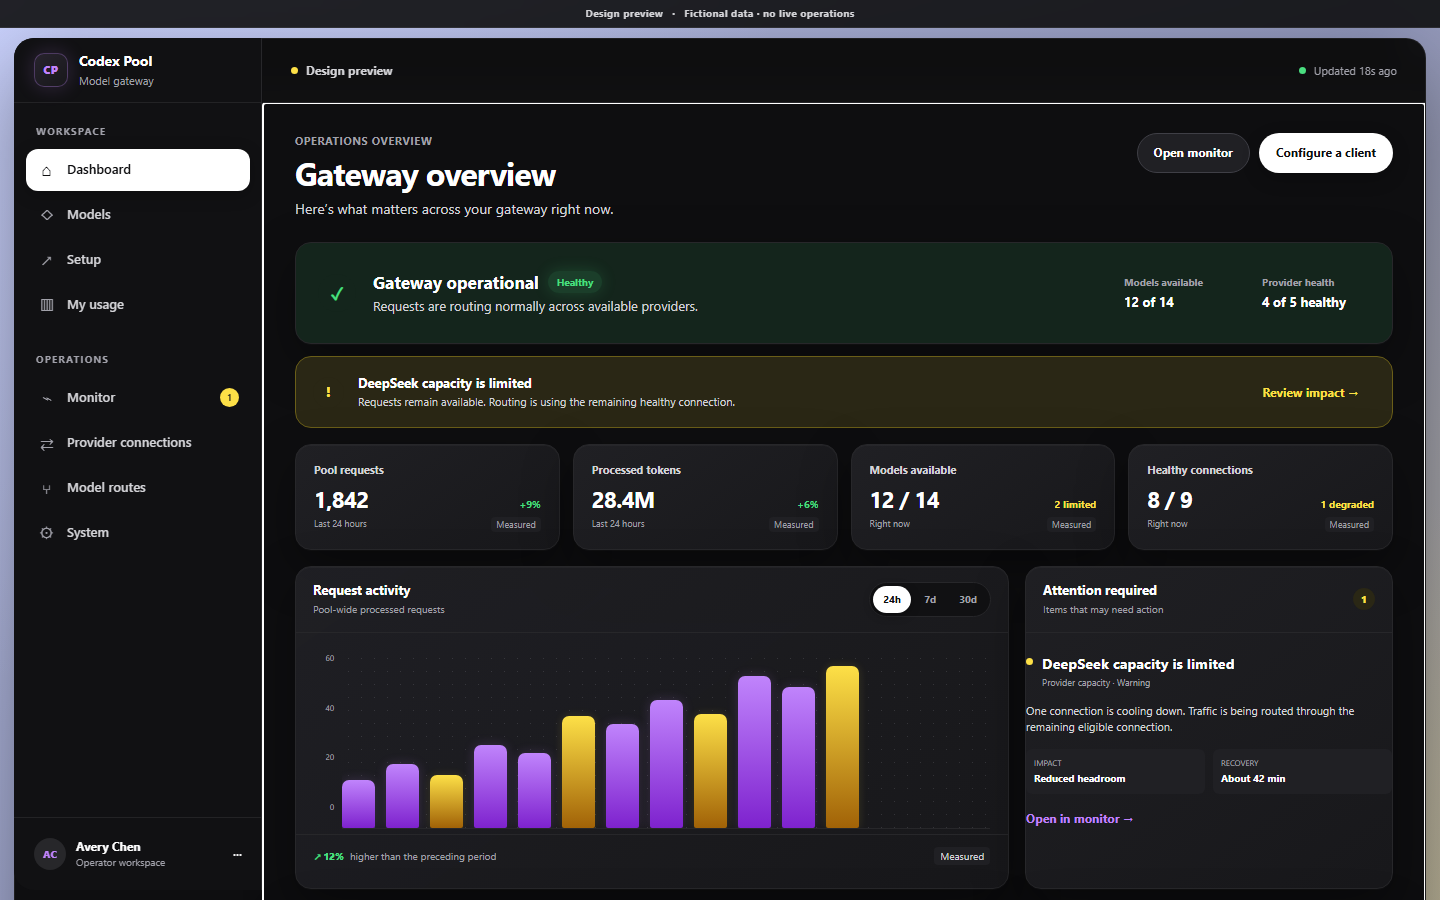
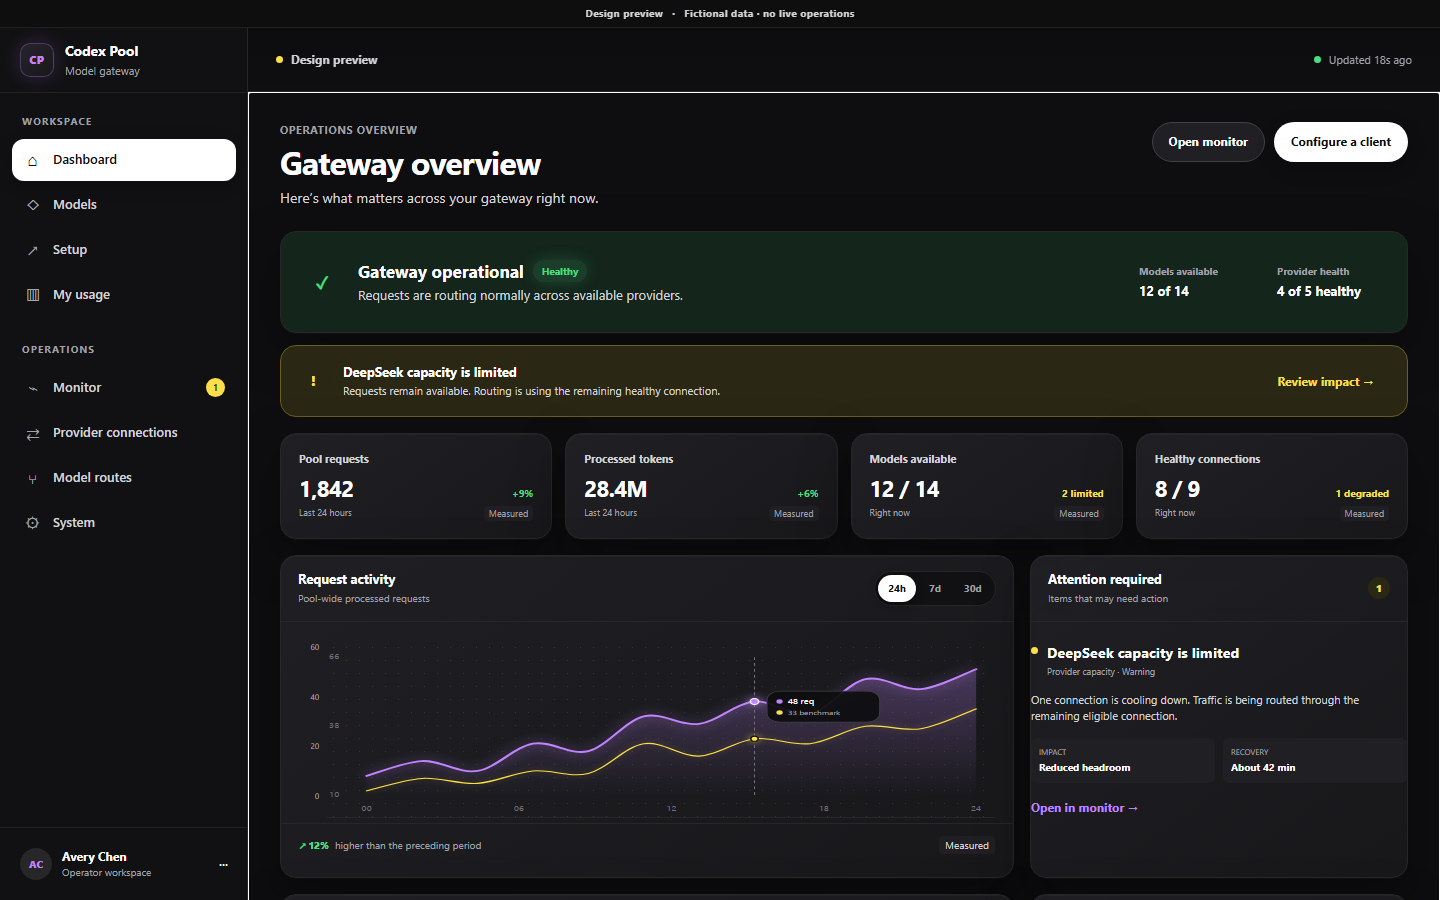
feat: redesign activity charts as dual splines

diff --git a/.product-design/rounds/step-0/primary/styles.css b/.product-design/rounds/step-0/primary/styles.css
@@ -34,7 +34,7 @@
 
 * { box-sizing: border-box; }
 html, body { min-height: 100%; margin: 0; }
-body { background: radial-gradient(circle at 12% 8%, rgba(202,210,253,.95), transparent 35%), radial-gradient(circle at 88% 88%, rgba(199,188,146,.6), transparent 38%), linear-gradient(135deg, #cad2fd, #9298bd 52%, #c7bc92); color: var(--text-primary); font-size: 14px; line-height: 1.45; overflow-x: hidden; }
+body { background: var(--bg-canvas); color: var(--text-primary); font-size: 14px; line-height: 1.45; overflow-x: hidden; }
 button, input { font: inherit; }
 button, a { -webkit-tap-highlight-color: transparent; }
 button:focus-visible, a:focus-visible, input:focus-visible { outline: 3px solid rgba(49, 95, 196, .34); outline-offset: 2px; }
@@ -55,9 +55,9 @@ body[data-runtime="operator"] .member-only { display: none !important; }
 
 .preview-notice { position: fixed; inset: 0 0 auto 0; z-index: 100; height: 28px; display: flex; align-items: center; justify-content: center; gap: 9px; background: rgba(14,14,16,.9); border-bottom: 1px solid rgba(255,255,255,.08); color: #d4d4d8; font-size: 10px; font-weight: 650; letter-spacing: .04em; backdrop-filter: blur(12px); }
 .preview-notice span + span::before { content: "·"; margin-right: 9px; }
-.app-shell { min-height: calc(100vh - 48px); margin: 38px 14px 10px; padding-top: 0; display: grid; grid-template-columns: var(--sidebar-width) minmax(0, 1fr); grid-template-rows: var(--topbar-height) minmax(0, 1fr); border: 1px solid rgba(255,255,255,.07); border-radius: 20px; background: var(--bg-canvas); box-shadow: 0 28px 90px rgba(2,2,3,.42); overflow: clip; }
+.app-shell { min-height: 100vh; padding-top: 28px; display: grid; grid-template-columns: var(--sidebar-width) minmax(0, 1fr); grid-template-rows: var(--topbar-height) minmax(0, 1fr); background: var(--bg-canvas); }
 
-.sidebar { position: fixed; top: 38px; bottom: 10px; left: 14px; z-index: 30; width: var(--sidebar-width); display: flex; flex-direction: column; border-radius: 20px 0 0 20px; background: var(--sidebar); color: var(--text-primary); }
+.sidebar { position: fixed; top: 28px; bottom: 0; left: 0; z-index: 30; width: var(--sidebar-width); display: flex; flex-direction: column; background: var(--sidebar); color: var(--text-primary); }
 .sidebar-brand-row { min-height: var(--topbar-height); display: block; border-bottom: 1px solid rgba(255,255,255,.08); }
 .brand { min-width: 0; min-height: var(--topbar-height); display: flex; align-items: center; gap: 11px; padding: 0 20px; text-decoration: none; }
 .sidebar-toggle { position: absolute; top: 0; right: -5px; bottom: 0; z-index: 3; width: 10px; border: 0; border-radius: 0; background: linear-gradient(to right, transparent 4px, #27272a 4px, #27272a 5px, transparent 5px); padding: 0; cursor: pointer; }
@@ -102,7 +102,7 @@ body.sidebar-collapsed .user-button { display: flex; justify-content: center; pa
 .user-button small { color: var(--sidebar-muted); font-size: 10px; }
 .avatar { width: 32px; height: 32px; display: grid; place-items: center; border: 0; border-radius: 50%; background: #27272a; color: #c084fc; font-size: 10px; font-weight: 800; }
 
-.topbar { position: sticky; top: 0; z-index: 20; grid-column: 2; height: var(--topbar-height); display: flex; align-items: center; justify-content: space-between; padding: 0 28px; border-bottom: 1px solid var(--border); background: rgba(14,14,16,.78); backdrop-filter: blur(18px); }
+.topbar { position: sticky; top: 28px; z-index: 20; grid-column: 2; height: var(--topbar-height); display: flex; align-items: center; justify-content: space-between; padding: 0 28px; border-bottom: 1px solid var(--border); background: rgba(14,14,16,.88); backdrop-filter: blur(18px); }
 .topbar-context, .topbar-actions, .refresh-state { display: flex; align-items: center; gap: 8px; }
 .topbar-context { color: var(--text-secondary); font-size: 12px; font-weight: 650; }
 .environment-dot { width: 7px; height: 7px; border-radius: 50%; background: #fde047; }
@@ -194,9 +194,19 @@ body[data-runtime="operator"] .degraded-banner.operator-only { display: grid !im
 .segmented button.active { background: #ffffff; color: #0e0e10; box-shadow: 0 2px 10px rgba(0,0,0,.35); }
 .chart-wrap { height: 201px; display: grid; grid-template-columns: 25px 1fr; gap: 8px; padding: 19px 18px 5px 13px; }
 .chart-y { display: flex; flex-direction: column; justify-content: space-between; align-items: flex-end; padding-bottom: 16px; color: var(--text-muted); font-size: 8px; }
-.chart { position: relative; display: flex; align-items: end; gap: clamp(4px, 1vw, 11px); border-bottom: 1px solid var(--border); background-image: radial-gradient(circle, rgba(161,161,170,.2) .75px, transparent .85px); background-size: 13px 13px; overflow: hidden; }
-.chart-bar { flex: 1 1 0; min-width: 5px; max-width: 33px; border-radius: 7px 7px 2px 2px; background: linear-gradient(to top, #7e22ce, #c084fc); box-shadow: 0 0 12px rgba(192,132,252,.18); transition: height 160ms ease; }
-.chart-bar:nth-child(3n) { background: linear-gradient(to top, #a16207, #fde047); box-shadow: 0 0 10px rgba(253,224,71,.14); }
+.chart { position: relative; border-bottom: 1px solid var(--border); background-image: radial-gradient(circle, rgba(161,161,170,.2) .75px, transparent .85px); background-size: 13px 13px; overflow: hidden; }
+.spline-svg { width: 100%; height: 100%; display: block; overflow: visible; }
+.spline-axis { fill: #71717a; font: 9px Inter, system-ui, sans-serif; }
+.spline-area { fill: url(#primary-area); }
+.spline-primary { fill: none; stroke: #c084fc; stroke-width: 2.5; stroke-linecap: round; filter: drop-shadow(0 0 7px rgba(192,132,252,.65)); }
+.spline-secondary { fill: none; stroke: #fde047; stroke-width: 1.5; stroke-linecap: round; filter: drop-shadow(0 0 4px rgba(253,224,71,.3)); }
+.spline-marker { stroke: #71717a; stroke-width: 1; stroke-dasharray: 4 4; }
+.spline-node-primary { fill: #c084fc; stroke: #ffffff; stroke-width: 1.5; filter: drop-shadow(0 0 5px rgba(192,132,252,.9)); }
+.spline-node-secondary { fill: #fde047; stroke: #0e0e10; stroke-width: 1.5; filter: drop-shadow(0 0 4px rgba(253,224,71,.65)); }
+.spline-tooltip { fill: rgba(14,14,16,.94); stroke: #3f3f46; stroke-width: 1; }
+.spline-tooltip-text { fill: #ffffff; font: 9px Inter, system-ui, sans-serif; }
+.spline-tooltip-sub { fill: #a1a1aa; font: 8px Inter, system-ui, sans-serif; }
+.focus-chart, .live-chart { position: relative; height: 400px; padding: 0; background-color: rgba(14,14,16,.26); background-image: radial-gradient(circle, rgba(161,161,170,.22) .8px, transparent .9px); background-size: 14px 14px; }
 .chart-summary { min-height: 44px; display: flex; align-items: center; gap: 6px; padding: 0 18px; border-top: 1px solid var(--border); color: var(--text-muted); font-size: 10px; }
 .trend.positive { color: var(--success); font-weight: 800; }
 .evidence { margin-left: auto; padding: 2px 6px; border-radius: 4px; background: var(--bg-subtle); color: var(--text-secondary); }
@@ -319,7 +329,9 @@ body[data-runtime="operator"] .count-badge.operator-only { display: grid !import
 .usage-layout { display: grid; grid-template-columns: minmax(0,1.1fr) minmax(340px,.9fr); gap: 16px; }
 .weekly-bars { height: 268px; display: grid; grid-template-columns: repeat(7,1fr); align-items: end; gap: 12px; padding: 24px 22px 15px; background-image: radial-gradient(circle, rgba(161,161,170,.18) .75px, transparent .85px); background-size: 13px 13px; }
 .weekly-bars div { height: 100%; display: grid; grid-template-rows: 1fr auto auto; align-items: end; justify-items: center; gap: 5px; }
-.weekly-bars i { width: min(34px,80%); height: var(--bar); border-radius: 8px 8px 2px 2px; background: linear-gradient(to top, #7e22ce, #c084fc); box-shadow: 0 0 12px rgba(192,132,252,.18); }
+.weekly-bars i { position: relative; width: min(34px,80%); height: var(--bar); border: 1px solid #3f3f46; border-radius: 999px; background: repeating-linear-gradient(135deg, #27272a 0, #27272a 3px, #18181b 3px, #18181b 7px); }
+.weekly-bars div:nth-child(7) i { border-color: rgba(192,132,252,.55); background: linear-gradient(to top, #fde047 0 24%, #c084fc 24% 100%); box-shadow: 0 0 16px rgba(192,132,252,.25); }
+.weekly-bars div:nth-child(7) strong { color: #fde047; }
 .weekly-bars strong { font-size: 9px; }
 .weekly-bars span { color: var(--text-muted); font-size: 9px; }
 .usage-note { min-height: 43px; display: flex; align-items: center; padding: 0 18px; border-top: 1px solid var(--border); color: var(--text-secondary); font-size: 10px; }

diff --git a/.product-design/rounds/step-0/primary/app.js b/.product-design/rounds/step-0/primary/app.js
@@ -51,23 +51,47 @@ const activity = {
   "30d": [82, 96, 88, 114, 120, 132, 126, 148, 143, 157, 168, 162]
 };
 
+let splineSequence = 0;
+function splinePath(coords) {
+  if (coords.length < 2) return "";
+  let path = `M ${coords[0][0]} ${coords[0][1]}`;
+  for (let i = 0; i < coords.length - 1; i++) {
+    const p0 = coords[i - 1] || coords[i], p1 = coords[i], p2 = coords[i + 1], p3 = coords[i + 2] || p2;
+    const c1x = p1[0] + (p2[0] - p0[0]) / 6, c1y = p1[1] + (p2[1] - p0[1]) / 6;
+    const c2x = p2[0] - (p3[0] - p1[0]) / 6, c2y = p2[1] - (p3[1] - p1[1]) / 6;
+    path += ` C ${c1x} ${c1y}, ${c2x} ${c2y}, ${p2[0]} ${p2[1]}`;
+  }
+  return path;
+}
+
+function renderSpline(target, primary, secondary, options = {}) {
+  const width = 640, height = 240, left = 38, right = 18, top = 22, bottom = 30;
+  const all = [...primary, ...secondary], min = Math.min(...all) * .86, max = Math.max(...all) * 1.08;
+  const coords = values => values.map((value, index) => [left + index * (width-left-right) / Math.max(1, values.length-1), top + (max-value) / Math.max(1, max-min) * (height-top-bottom)]);
+  const a = coords(primary), b = coords(secondary), primaryPath = splinePath(a), secondaryPath = splinePath(b);
+  const areaPath = `${primaryPath} L ${a.at(-1)[0]} ${height-bottom} L ${a[0][0]} ${height-bottom} Z`;
+  const active = Math.min(primary.length - 1, Math.max(1, Math.round((primary.length - 1) * .66)));
+  const [activeX, activeY] = a[active], [, secondaryY] = b[active];
+  const tooltipX = Math.min(width - 126, Math.max(left + 5, activeX + 12)), tooltipY = Math.max(8, Math.min(activeY, secondaryY) - 14);
+  const gradient = `primary-area-${++splineSequence}`, xLabels = options.xLabels || ["1", "8", "16", "24", "31"], yLabels = [max, (max+min)/2, min];
+  target.innerHTML = `<svg class="spline-svg" viewBox="0 0 ${width} ${height}" preserveAspectRatio="none" aria-hidden="true"><defs><linearGradient id="${gradient}" x1="0" y1="0" x2="0" y2="1"><stop offset="0" stop-color="#c084fc" stop-opacity=".28"/><stop offset="1" stop-color="#c084fc" stop-opacity="0"/></linearGradient></defs><path d="${areaPath}" fill="url(#${gradient})"/><path class="spline-secondary" d="${secondaryPath}"/><path class="spline-primary" d="${primaryPath}"/><line class="spline-marker" x1="${activeX}" y1="${top}" x2="${activeX}" y2="${height-bottom}"/><circle class="spline-node-primary" cx="${activeX}" cy="${activeY}" r="4"/><circle class="spline-node-secondary" cx="${activeX}" cy="${secondaryY}" r="3.5"/><g transform="translate(${tooltipX} ${tooltipY})"><rect class="spline-tooltip" width="108" height="42" rx="12"/><circle cx="12" cy="14" r="3" fill="#c084fc"/><text class="spline-tooltip-text" x="20" y="17">${primary[active]} ${options.primaryUnit || "req"}</text><circle cx="12" cy="29" r="3" fill="#fde047"/><text class="spline-tooltip-sub" x="20" y="32">${secondary[active]} benchmark</text></g>${yLabels.map((value,index)=>`<text class="spline-axis" x="2" y="${top+index*(height-top-bottom)/2+3}">${Math.round(value)}</text>`).join("")}${xLabels.map((label,index)=>`<text class="spline-axis" text-anchor="middle" x="${left+index*(width-left-right)/(xLabels.length-1)}" y="${height-8}">${label}</text>`).join("")}</svg>`;
+}
+
 function renderChart(range) {
-  const points = activity[range];
-  const max = Math.max(...points);
-  document.querySelector("#activity-chart").innerHTML = points.map((value, index) =>
-    `<i class="chart-bar" style="height:${Math.max(8, value / max * 92)}%" title="Period ${index + 1}: ${value} requests"></i>`
-  ).join("");
-  document.querySelector("#activity-chart").setAttribute("aria-label", `Request activity over ${range}. Activity is higher than the preceding period with no unusual failure spike.`);
+  const points = activity[range], benchmark = points.map((value,index)=>Math.max(1,Math.round(value*(.66+(index%3)*.035))));
+  const target = document.querySelector("#activity-chart");
+  renderSpline(target, points, benchmark, {xLabels:range === "24h" ? ["00","06","12","18","24"] : range === "7d" ? ["Mon","Tue","Wed","Fri","Sun"] : ["1","8","16","24","30"]});
+  target.setAttribute("aria-label", `Smooth request activity and benchmark trends over ${range}. Activity is higher than the preceding period with no unusual failure spike.`);
 }
 renderChart("24h");
 
 const livePoints = [28,32,30,38,35,42,39,45,48,44,52,49,58,55,61,57,64,60,69,66,72,68,75,73,79,76,82,78,84,81];
-function renderLiveBars(target, points = livePoints) {
-  const max = Math.max(...points);
-  target.innerHTML = points.map((value, index) => `<i style="height:${Math.max(8, value / max * 94)}%;opacity:${.58 + index / points.length * .42}" title="Interval ${index + 1}: ${value}"></i>`).join("");
+function renderLiveSpline(target, points = livePoints) {
+  const comparison = points.map((value,index)=>Math.round(value*(.68+(index%5)*.018)));
+  renderSpline(target, points, comparison, {xLabels:["-30m","-20m","-10m","-5m","Now"],primaryUnit:"/min"});
 }
-renderLiveBars(document.querySelector("#live-monitor-chart"));
-renderLiveBars(document.querySelector("#focus-chart"), runtime === "operator" ? livePoints : livePoints.map((value, index) => Math.round(value * .52 + (index % 4) * 2)));
+renderLiveSpline(document.querySelector("#live-monitor-chart"));
+renderLiveSpline(document.querySelector("#focus-chart"), runtime === "operator" ? livePoints : livePoints.map((value,index)=>Math.round(value*.52+(index%4)*2)));
 
 const focus = runtime === "operator" ? {
   title: "Live pool health", description: "Requests, latency, errors, and capacity · rolling 30 minutes", summary: "Routing is stable with one reduced-capacity provider.",

diff --git a/.product-design/direction/product-truth.md b/.product-design/direction/product-truth.md
@@ -122,18 +122,9 @@ In the real product:
 
 Step 0 uses the supplied Fitonist analysis as its default visual direction. The remote reference is design input only and is never loaded by the artifact.
 
-### Outer presentation backdrop
+### Supporting reference swatches
 
-The supplied swatches establish the ambient presentation around the application rather than replacing all application semantics:
-
-| Role | Name | Value |
-|---|---|---|
-| Lavender/blue ambient field | Pale Phthalo Blue | `#cad2fd` |
-| Warm ambient field | Morning Tea | `#c7bc92` |
-| Supporting neutral | Granite Canyon | `#6c6e79` |
-| Deep support layers | Avocado Peel / Gluon Grey / Black Hole | `#39373d`, `#1a191c`, `#020203` |
-
-On desktop and tablet, the dark application floats over a restrained lavender-to-warm gradient. Compact devices use the application full-bleed so decorative framing never consumes working space.
+The supplied Pale Phthalo Blue, Morning Tea, Granite Canyon, Avocado Peel, Gluon Grey, and Black Hole swatches remain reference inputs for neutral balance and future theme work. They do **not** create a page background behind the application. The product uses a full-viewport dark canvas on every device.
 
 ### Application palette
 
@@ -151,11 +142,12 @@ On desktop and tablet, the dark application floats over a restrained lavender-to
 
 Visual rules:
 
-- compose desktop analytics as a rounded bento grid inside a floating dark application frame;
+- compose desktop analytics as a rounded bento grid on a full-viewport dark product canvas;
 - use pill navigation, segmented controls, rounded cards, inner highlights, soft shadows, and restrained glow;
 - establish hierarchy through large white metrics, muted labels, and compact support copy;
-- use purple as the primary graph series, yellow for comparison/warnings, green for positive health/trends, and cyan for information;
-- use dotted chart fields and soft glow only where they improve data scanning;
+- render continuous time-series as smooth dual-spline charts: purple primary line and area glow, thin yellow comparison line, dot-matrix field, minimal axes, dashed active marker, glowing nodes, and a dark pill tooltip;
+- reserve textured pill/capsule bars for discrete category or day comparisons, with selective solid color on the active peak;
+- use proportional bubble clusters only for demographic composition and halftone maps only for genuine geographic data—never as decoration;
 - preserve focused mobile/tablet compositions instead of shrinking the complete bento dashboard;
 - do not use decorative remote imagery or reproduce the reference asset in the product;
 - retain labels, icons, and shape differences so status never depends on color alone.

diff --git a/.product-design/rounds/step-0/primary/README.md b/.product-design/rounds/step-0/primary/README.md
@@ -12,7 +12,9 @@ This single artifact tests the Phase 9 interaction architecture before visual al
 - detailed operator Monitor;
 - representative Models and My usage experiences, including a privacy-conscious weekly leaderboard;
 - accessible collapsible desktop navigation and compact mobile-landscape navigation;
-- Fitonist-inspired dark bento visual system with a floating desktop frame, pill controls, white metric hierarchy, muted labels, and green/purple/yellow/cyan semantic accents;
+- Fitonist-inspired dark bento visual system on a full-viewport product canvas, with pill controls, white metric hierarchy, muted labels, and green/purple/yellow/cyan semantic accents;
+- smooth dual-spline charts for continuous activity, with purple area glow, yellow comparison, dot grid, active marker, nodes, and tooltip;
+- textured pill bars reserved for discrete weekly comparisons;
 - responsive desktop, tablet portrait, tablet-landscape secondary-screen, portrait-mobile, and landscape-mobile hierarchy;
 - role-aware compact defaults: operator mobile opens Monitor, member landscape opens My usage, and tablet landscape opens a focused live graph;
 - localized resource failure and in-memory recovery.
